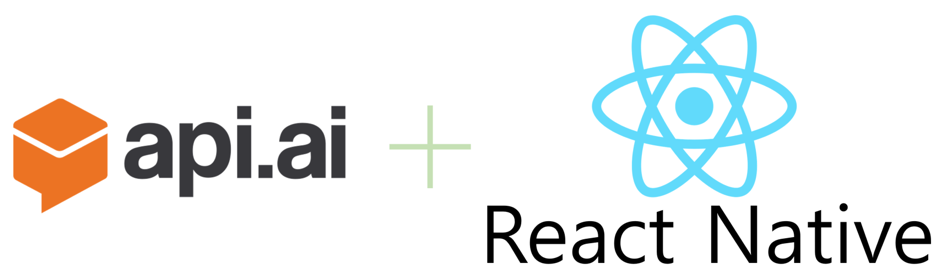
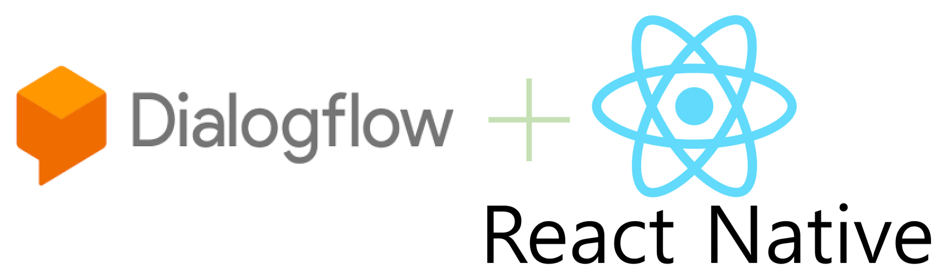
add new header img

Changed region(s): [[0.0, 0.2302, 0.5217, 0.777], [0.5217, 0.2878, 0.6138, 0.5755]]

diff --git a/README.md b/README.md
@@ -11,9 +11,6 @@ A React-Native Bridge for the Google Dialogflow AI SDK.
 
 Support for iOS 10+ and Android!
 
-We are currently working on dialogflow V2 support! (Last Update: 07.March 2018)
-
-
 [Dialogflow](https://dialogflow.com/) is a powerful tool for building delightful and natural conversational experiences. You can build chat and speech bots and may intergrate it in a lot of platform like twitter, facebook, slack, or alexa.
 
 ## Install
@@ -24,7 +21,6 @@ npm install --save react-native-dialogflow
 
 react-native link react-native-dialogflow
 react-native link react-native-speech-to-text-ios
-# for V2
 react-native link react-native-voice
 
 ```
